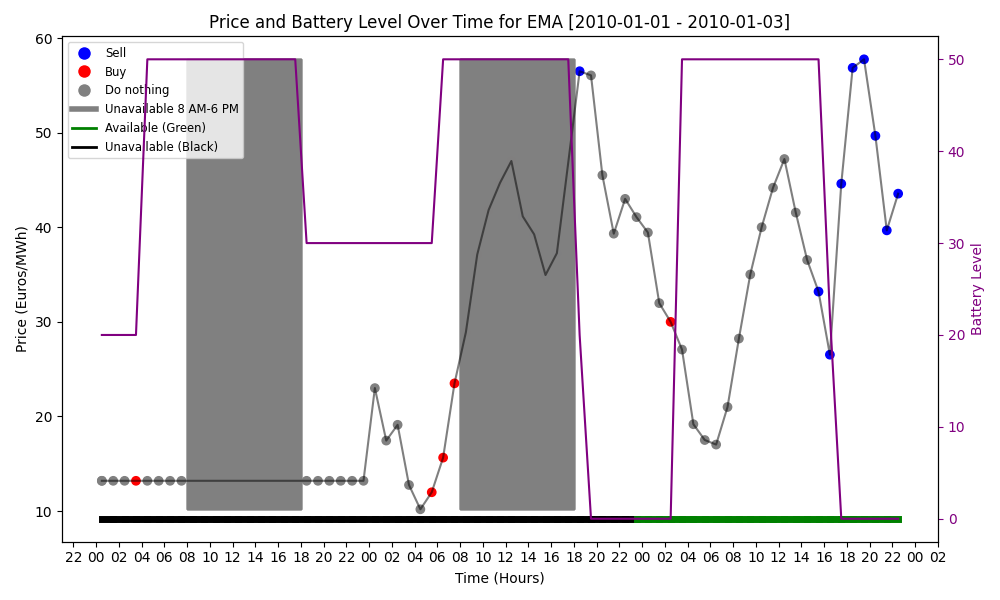
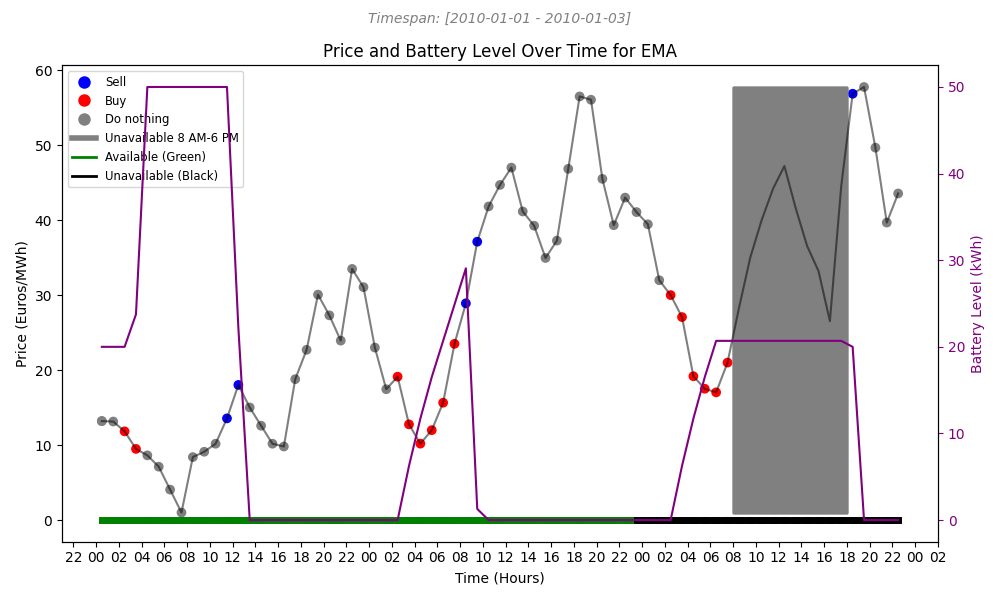
Improve EMA and BLSH

diff --git a/algorithms.py b/algorithms.py
@@ -153,12 +153,12 @@ class EMA:
           self.ls_cross = 0
           self.sl_cross += 1
           if self.sl_cross > 1 and 3 <= state[1] <= 6:
-            self.action = -(self.max_battery - state[0])
+            self.action = -(self.max_battery - state[0]) / 8
       # If the short EMA is above the long EMA, sell
       elif self.short_ema > self.long_ema:
           self.sl_cross = 0
           self.ls_cross += 1
-          if self.ls_cross > 6:
+          if self.ls_cross > 1:
               self.action = state[0]
       # Otherwise, do nothing
       else:
@@ -183,6 +183,7 @@ class BuyLowSellHigh:
       self.action = None
       self.history = np.array([])
       self.count = 0
+      self.buy = None
   
   def choose_action(self, price: float,  state: list) -> float:
       """ Chooses an action for the current time step.
@@ -203,12 +204,11 @@ class BuyLowSellHigh:
       # Buy in the morning
       if 3 <= state[1] <= 6:
           # If it is a new day, buy one seventh of the max battery
-          self.action -= (self.max_battery - state[0]) / 4
-          self.amount = self.action
+          self.action -= (self.max_battery - state[0]) / 8.2
           # Append the action to the history
-          self.buy = 2 * price / 0.9
+          self.buy = price
       # Sell in the evening
-      elif 7 <= state[1] <= 20 and price >= self.buy:
+      elif self.buy and price >= self.buy:
           self.action = state[0]
           
       return self.action

diff --git a/baseline.py b/baseline.py
@@ -94,7 +94,7 @@ def ema(env: Env) -> EMA:
         EMA: The EMA agent.
     """
     # Create and return a new agent instance
-    return EMA(3, 12, env.max_battery)
+    return EMA(3, 7, env.max_battery)
 
 def process_command(env: Env) -> Tuple[QLearningAgent or BuyLowSellHigh or EMA, bool]:
     """ Function to process the command line arguments.
